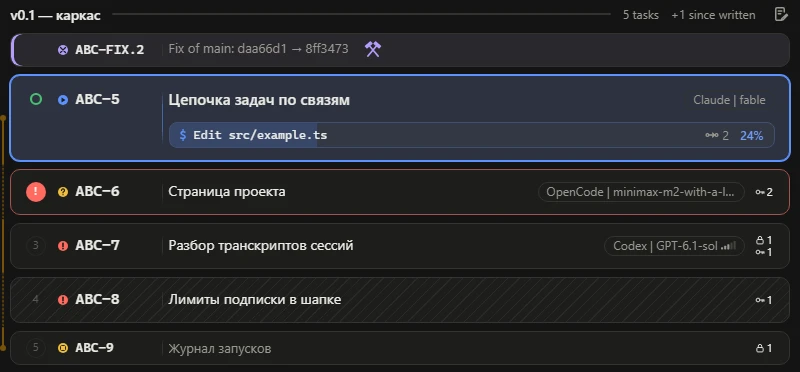
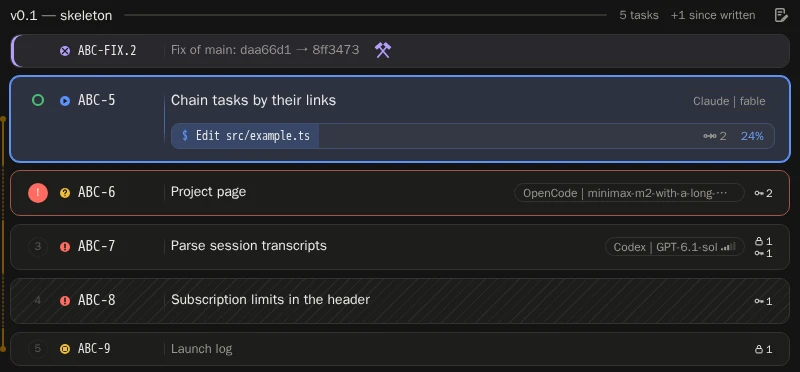
[BTN-1750] dev:fake ?content=en: English task titles, milestones, labels and session lines for the guide's frames; the frames are shot with it
Claude-Session: https://claude.ai/code/session_01XKUGyrdRKUTpB5AjvKPm52

diff --git a/web/src/live/fakeEnglish.ts b/web/src/live/fakeEnglish.ts
@@ -1,0 +1,61 @@
+/**
+ * `?content=en` (BTN-1750): the default fake state with English task titles, milestones, labels and session lines, for the
+ * guide's frames. Every string equal to a key below is replaced wherever it stands in the state; the rest stays. A new
+ * Russian string in the default state fails `fakeEnglish.test.ts` until it has its line here.
+ */
+const ENGLISH: Record<string, string> = {
+  'v0.1 — каркас': 'v0.1 — skeleton',
+  'v0.2 — удобство': 'v0.2 — comfort',
+  'v0.3 — служба': 'v0.3 — service',
+  'Переделка': 'Rework',
+  'Каркас сервера': 'Server skeleton',
+  'Чтение задач из трекера': 'Read tasks from the tracker',
+  'Опрос трекера по расписанию': 'Poll the tracker on a schedule',
+  'Запуск сессий в фоне': 'Start sessions in the background',
+  'Цепочка задач по связям': 'Chain tasks by their links',
+  'Страница проекта': 'Project page',
+  'Разбор транскриптов сессий': 'Parse session transcripts',
+  'Лимиты подписки в шапке': 'Subscription limits in the header',
+  'Журнал запусков': 'Launch log',
+  'Очередь цепочек': 'Chain queue',
+  'Панель сессии': 'Session panel',
+  'Вопрос: служба Windows или планировщик задач': 'Question: a Windows service or the Task Scheduler',
+  'Уведомления на телефон': 'Phone notifications',
+  'Установка службы одним скриптом': 'Install the service with one script',
+  'Перезапуск службы после обновления': 'Restart the service after an update',
+  'Тёмная тема для печати': 'Dark theme for printing',
+  'Импорт задач из CSV': 'Import tasks from CSV',
+  'Подсказки по горячим клавишам': 'Keyboard shortcut hints',
+  'Старый формат отчёта': 'Old report format',
+  'Вопрос: какие настройки переносить при импорте старого конфига, а какие спрашивать у пользователя заново':
+    'Question: which settings to carry over when importing an old config, and which to ask the user again',
+  'Экспорт отчёта в CSV': 'Export the report to CSV',
+  'Фильтр отчёта по датам': 'Filter the report by dates',
+  'Резервное копирование': 'Backups',
+  'Ротация логов службы': 'Rotate the service logs',
+  'Проверка свободного места на диске перед запуском': 'Check free disk space before a start',
+  'Ядро цепочки': 'Chain core',
+  'Удобство страницы': 'Page comfort',
+  'Первый запуск': 'First run',
+  'Читаю описание задачи и вложения.': 'Reading the task description and attachments.',
+  'Порядок строится топологической сортировкой, цикл сейчас роняет сервер. Сначала тест на цикл.':
+    'The order is a topological sort, and a cycle crashes the server now. A test for the cycle first.',
+  'API Error: 529 overloaded, повтор через 4 с': 'API Error: 529 overloaded, retrying in 4 s',
+  '[ABC-1] Стартовый экран': '[ABC-1] Start screen',
+  '[ABC-2] Ошибки в логах': '[ABC-2] Errors in the logs',
+  '[ABC-3] Новая схема конфигурации': '[ABC-3] New config schema',
+  '[ABC-4] Ретраи загрузки': '[ABC-4] Download retries',
+  '[ABC-5] Экспорт отчёта': '[ABC-5] Report export',
+}
+
+/** A copy of `value` with every string of the dictionary in English. */
+export function withEnglishContent<T>(value: T): T {
+  return english(value) as T
+}
+
+function english(value: unknown): unknown {
+  if (typeof value === 'string') return ENGLISH[value] ?? value
+  if (Array.isArray(value)) return value.map(english)
+  if (value === null || typeof value !== 'object') return value
+  return Object.fromEntries(Object.entries(value).map(([key, each]) => [ENGLISH[key] ?? key, english(each)]))
+}

diff --git a/web/src/live/fake.ts b/web/src/live/fake.ts
@@ -61,6 +61,7 @@ import { fakeArchiveCount, fakeArchivePage, withFakeArchive } from './fakeArchiv
 import { fakeOutside, fakeOutsideArchive } from './fakeOutside.js'
 import { withFeeds, withLongNames, withMixedNames } from './fakeLong.js'
 import { withFakeLanding } from './fakeLandings.js'
+import { withEnglishContent } from './fakeEnglish.js'
 import { fakeLaunches, fakeState, withFakeSpent, KEY_LIMIT_AGENTS } from './fakeState.js'
 
 const TICK_MS = 2_000
@@ -618,7 +619,8 @@ export function createFakeSource(search: string): LiveSource {
     ]
   }
   if (params.get('milestones') === 'saved' && current.state !== null) current.state = withSavedMilestoneOrder(current.state, { project: 'ABC', order: ['v0.3 — служба', 'v0.1 — каркас'] })
-  if (current.state !== null) current.state = withLiveMilestones(withHeaderLevels(prepareHeaderLevels(current.state, params.get('header'))))
+  const content = params.get('content') === 'en' ? withEnglishContent : <T>(value: T): T => value
+  if (current.state !== null) current.state = content(withLiveMilestones(withHeaderLevels(prepareHeaderLevels(current.state, params.get('header')))))
   const network = new FakeNetwork(params.get('machines'), (project) => current.state?.config.projects[project]?.repo ?? '')
   const chats = fakeChats(params.get('chats'))
   const notify = () => {
@@ -689,7 +691,7 @@ export function createFakeSource(search: string): LiveSource {
     setInterval(() => {
       const state = closing && ++ticks % CLOSE_TICKS === 0 ? close(current.state!) : current.state!
       const [kind, text] = FEED_STEPS[(closing ? ticks : ++ticks) % FEED_STEPS.length]!
-      const line: FeedLine = { at: ago(0), kind, text }
+      const line: FeedLine = { at: ago(0), kind, text: content(text) }
       const sessions = state.sessions.map((view) =>
         view.lamp === 'working' && view.contextTokens > 0
           ? { ...view, contextTokens: view.contextTokens + 800, lastActivityAt: ago(0), action: line, feed: [...view.feed.slice(1), line] }

diff --git a/web/src/live/fakeEnglish.test.ts b/web/src/live/fakeEnglish.test.ts
@@ -1,0 +1,39 @@
+import { describe, expect, it } from 'vitest'
+import { createFakeSource } from './fake.js'
+import { withEnglishContent } from './fakeEnglish.js'
+
+const CYRILLIC = /[Ѐ-ӿ]/
+
+function cyrillicOf(value: unknown): string[] {
+  const found: string[] = []
+  JSON.stringify(value, (_key, each: unknown) => {
+    if (typeof each === 'string' && CYRILLIC.test(each)) found.push(each)
+    return each
+  })
+  return found
+}
+
+describe('content=en', () => {
+  it('leaves no Russian text in the default state, for the guide frames', () => {
+    expect(cyrillicOf(createFakeSource('?content=en').snapshot().state)).toEqual([])
+  })
+
+  it('names tasks, milestones and the feed in English', () => {
+    const state = createFakeSource('?content=en').snapshot().state!
+    const abc5 = state.tasks.find((task) => task.id === 'ABC-5')!
+    expect(abc5.title).toBe('Chain tasks by their links')
+    expect(JSON.stringify(abc5)).toContain('v0.1 — skeleton')
+    expect(state.sessions.find((view) => view.task === 'ABC-5')!.feed.map((line) => line.text)).toContain('Reading the task description and attachments.')
+  })
+
+  it('keeps the Russian content without the parameter', () => {
+    const state = createFakeSource('').snapshot().state!
+    expect(state.tasks.find((task) => task.id === 'ABC-5')!.title).toBe('Цепочка задач по связям')
+  })
+
+  it('copies the value and leaves strings outside the dictionary alone', () => {
+    const value = { title: 'Страница проекта', other: 'kept', list: ['Переделка', 3, null] }
+    expect(withEnglishContent(value)).toEqual({ title: 'Project page', other: 'kept', list: ['Rework', 3, null] })
+    expect(value.title).toBe('Страница проекта')
+  })
+})

diff --git a/docs/web/fake-states/chain-states.md b/docs/web/fake-states/chain-states.md
@@ -6,6 +6,7 @@ The URL parameters that put the chain, the backlog, the chat and the session int
 | --- | --- |
 | `/p/ABC?archive=many\|few` | The archive's older pages (BTN-1445, `fakeArchive.ts`): ABC's trackers hold 300 (`many`) or 20 (`few`) closed tasks beyond the state's, numbered down from twice that, every 7th canceled; each `archive/page` takes 700 ms, so the spinner of the pressed toggle or "K more" shows (`--click '.chain__toggle >> nth=0' --settle 150`). `#ABC-400` with `many` pages on to that task. |
 | `/p/<key>?view=outside&outside=many\|none\|error` | The "Outside the chain" view (BTN-1428, `fakeOutside.ts`): each `outside/tasks` and `outside/archive` takes 600 ms, so the loader shows; by default seven tasks with an excluding label over v0.3, v0.4 and no milestone in In Review, In Progress, Todo and Backlog with mixed priorities (BTN-1673, for the status sections and the order switch), three of them held by chain tasks (BTN-1714: the chain's first task before two of them, its second and third before one, each run with its bracket), 31 in the old milestones v0.0 and v0.1 (folded unless the device keeps it open) and two in "Blocked", a status the rules count as closed; the folded "Archive" holds 14 closed tasks in pages of ten, so unfolded (`--click '.outside__archive .chain__toggle'`) it shows "older"; `many` gives the old milestones 140, for "Show more"; `none` the empty view and no archive; `error` the failed read with "Read again". |
+| `?content=en` | The default state's task titles, milestones, labels and session lines in English (BTN-1750, `fakeEnglish.ts`), for the guide's frames; the chats, transcripts and the other parameters' own additions stay Russian. A new Russian string in the default state fails `fakeEnglish.test.ts` until it gets its English line |
 | `?copies=missing\|downloading\|failed\|system-missing\|ready` | CLI copy consent, byte progress, retry and installation actions; `copyAgent=claude\|codex\|opencode\|copilot` picks the provider, `copySystem=missing` hides the Installed choice, `copyFailed=<provider>` fails a second provider's download beside it, `copyInstall=none` makes the machine one where no CLI can be installed (Docker, BTN-1539): no install command, the Latest choice and **Download the latest**. With `system-missing` on a machine that can install, the account panel names the command (`account.installs`), so the CLI's actions lead with **Install**; its press shows a running installer's output (BTN-1502). An explicit download completes after 3 s and opens account setup when started from the provider card. `copies=fresh` is a first run after BTN-603: every `cli` on `system`, Claude Code and OpenCode installed, Codex and Copilot not, no copy; `provider=` picks the chosen agent (`/setup?step=agent&copies=fresh&provider=opencode`). The selectors resolve only known providers, through a `Map`, so an inherited key such as `__proto__` selects or changes nothing: an unknown `copyAgent` leaves the state as it is, an unknown `copyFailed` is ignored, a fake CLI command with an unknown agent fails with `Unknown agent` and a download for one completes to nothing. |
 | `?protection=unsafe\|unprotected\|unknown\|unavailable\|protected\|twoRemotes\|opencode\|opencodeUnsafe\|opencodeCustom` | ABC's protection rules and the audit of its remote branch (`fakeProtection.ts`), Codex on bypass in each mode. `unsafe` — every rule group turned off; `unprotected`, `unknown`, `unavailable`, `protected` — the branch's verdict (`unknown` on a remote with a long name, `unavailable` a private GitHub repository on the free plan, EKR-121); `twoRemotes` — the same unprotected branch on `origin` and `github`, one band (BTN-759). `opencode` — ABC on OpenCode with the default rules, `opencodeUnsafe` with every group off, `opencodeCustom` with every group off and one command pattern of its own |
 | `?link=stale\|connecting` | connection states |

diff --git a/docs/web/screenshots.md b/docs/web/screenshots.md
@@ -32,7 +32,7 @@ The pictures of `docs/guide/` are shot, never drawn by hand: each is a frame of 
 
 ```json
 { "frames": [
-  { "id": "chain-rows", "route": "/p/ABC", "crop": { "x": 24, "y": 204, "width": 800, "height": 372 } },
+  { "id": "chain-rows", "route": "/p/ABC?content=en", "crop": { "x": 24, "y": 204, "width": 800, "height": 372 } },
   { "id": "machine-pins", "route": "/p/ABC?chain=pins", "steps": [{ "hover": ".block__pin" }, { "wait": "300" }], "width": 1024, "theme": "light" }
 ] }
 ```
@@ -40,7 +40,7 @@ The pictures of `docs/guide/` are shot, never drawn by hand: each is a frame of 
 - A frame: `id` (lower-case words joined by `-`, the file's name), `route` (a `dev:fake` route with its query, as `npm run shot` takes it), `steps` (each `{ "<kind>": "<arg>" }`, the kinds and arguments of `npm run shot`'s steps above: `click`, `context`, `hover`, `press`, `fill`, `upload`, `wait`, `wheel`, `drag`, `drop`), `selector` (the element shot alone; none — the viewport), `width` and `height` of the viewport (1280×800), `theme` (`dark`, or `light`), `scale` (the device pixel ratio, 1), `crop` (`{x, y, width, height}` in CSS pixels from the top left of the element or the viewport), `quality` (WebP, 0.9) and `settle` (ms after the steps, 500). An unknown key or a wrong value stops the run with the frame's id.
 - The same machinery as `npm run shot` (`scripts/shot-browser.ts`, `scripts/shot-step.ts`): Playwright's headless shell and `dev:fake` in process. The encoder is the browser's own (`canvas.toDataURL('image/webp')`, `scripts/guide-shots.page.js`), no new dependency.
 - A run without interface changes rewrites no file: the line says `same`, `changed` or `new` per frame. For that the frame is shot at a fixed moment (`page.clock.setFixedTime`), in UTC and `en-US`, with `Math.random` seeded, every animation and transition run to its end at once, subpixel text off (`--disable-lcd-text`: its fringes followed the page's layers, one run in a few differed), and only once two shots 300 ms apart match (late panels such as the milestone's stats). A frame whose page logs an error is not saved and the run exits 1.
-- Only `dev:fake` data, so no real names reach a picture; its task titles are Russian, as the rest of the fake.
+- Only `dev:fake` data, so no real names reach a picture. The guide is English, so a frame's route takes `content=en` (BTN-1750): the fake's task titles, milestones, labels and session lines in English (`fakeEnglish.ts`); without it they stay Russian, as the rest of the fake and the session shots that rely on them.
 - `scripts/guide-shots-manifest.test.ts` holds the manifest and the guide together: every picture a guide page links under `images/` is a frame, every frame is linked from a page and has its file, and `docs/guide/images/` holds nothing else. A new frame is a manifest entry, a run with its id and a link in the same commit.
 - The frames are shot again before each release (`docs/releases.md`, step 5).
 
